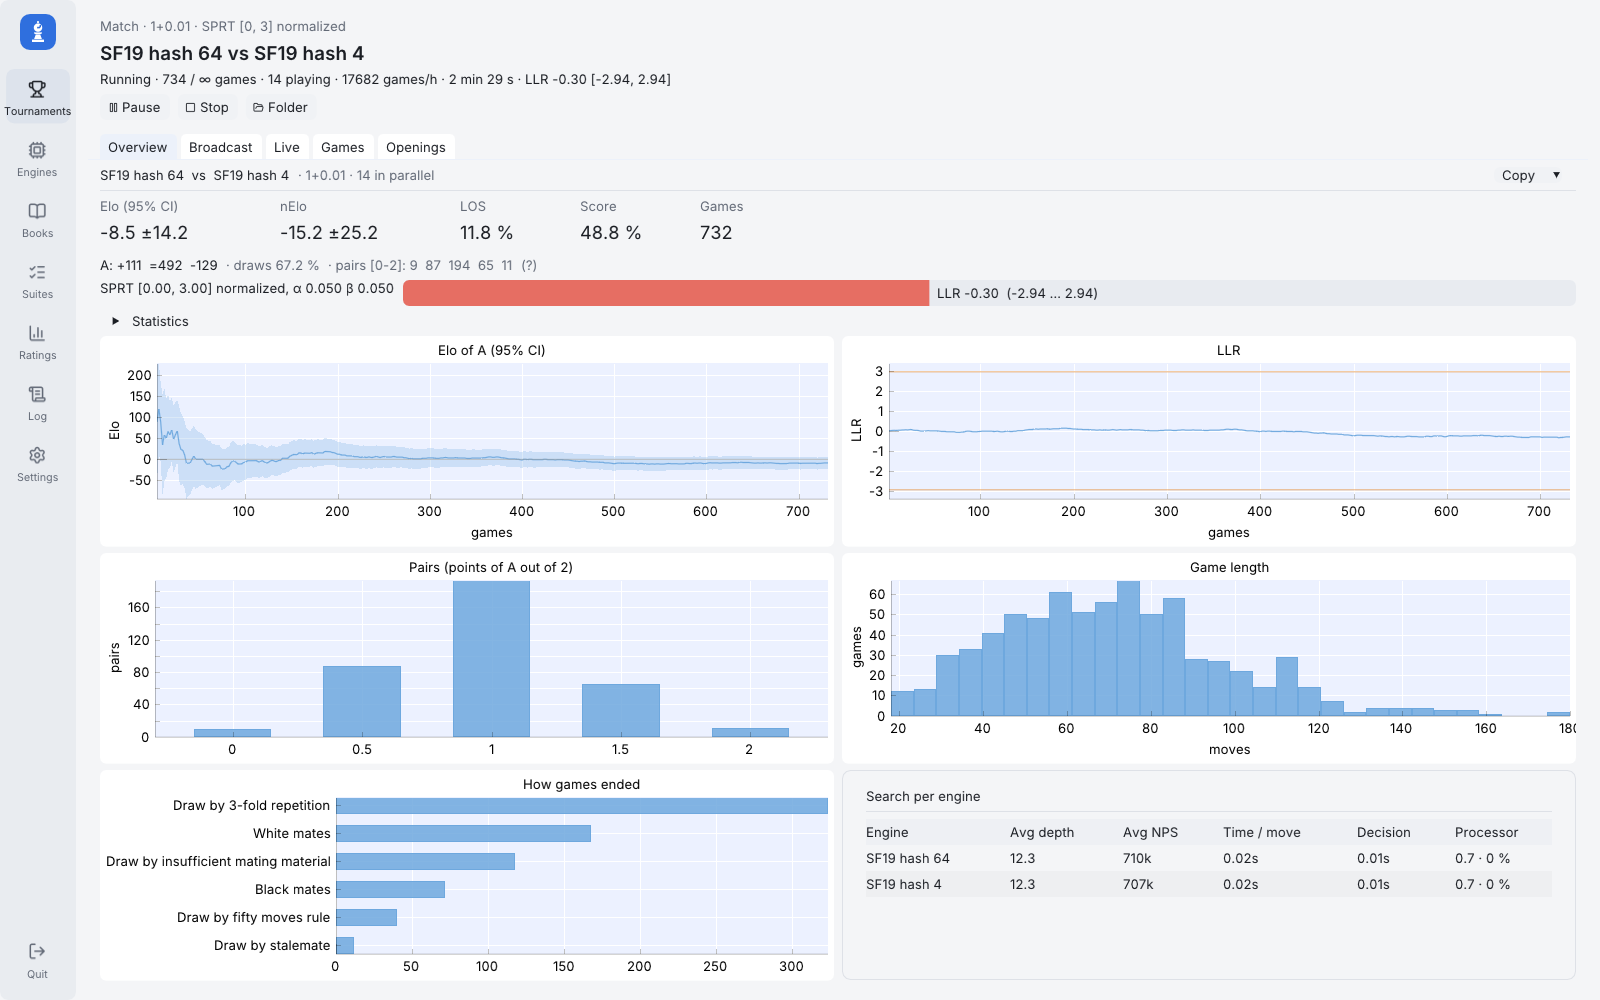
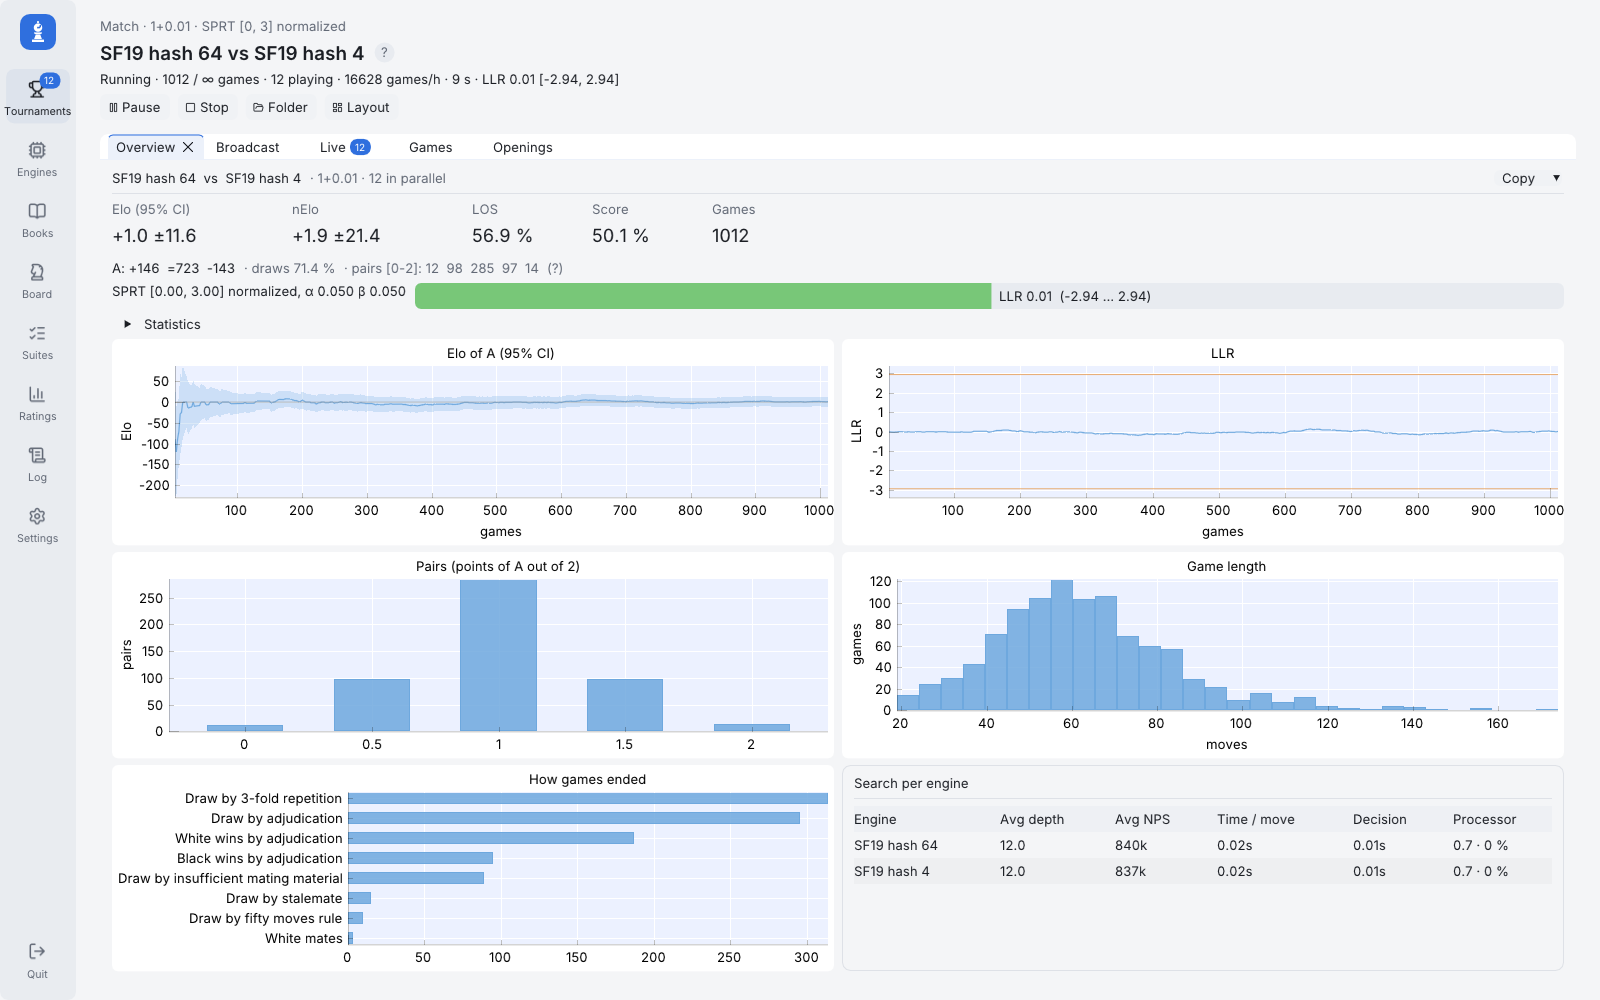
README screenshots taken again with Stockfish 19: the 0.6.0 pages, a new tournament and the Board page added
The live view, the overview, the games, the SPRT match, the big screen and two tournaments at once are taken again
with Stockfish 19 at several skill levels (the old ones showed the earlier buttons under the boards, and mock engines
for the newest pages); the new tournament page with its profiles and library, and the Board page analysing a position,
are added.

Claude-Session: https://claude.ai/code/session_01SefEJDdqeQFrMQXhRj33eY

diff --git a/README.md b/README.md
@@ -113,6 +113,10 @@ this repository still builds unchanged.
 |---|---|
 | ![Charts](docs/screenshots/charts.png) | ![Big screen](docs/screenshots/big-screen.png) |
 
+| A new tournament: a profile for each section, the engine library beside the participants | The Board page: an engine of the library analyses any position |
+|---|---|
+| ![New tournament](docs/screenshots/new-tournament.png) | ![Board](docs/screenshots/board.png) |
+
 | Two tournaments at once, sharing the cores by weight |
 |---|
 | ![Several tournaments](docs/screenshots/several.png) |
